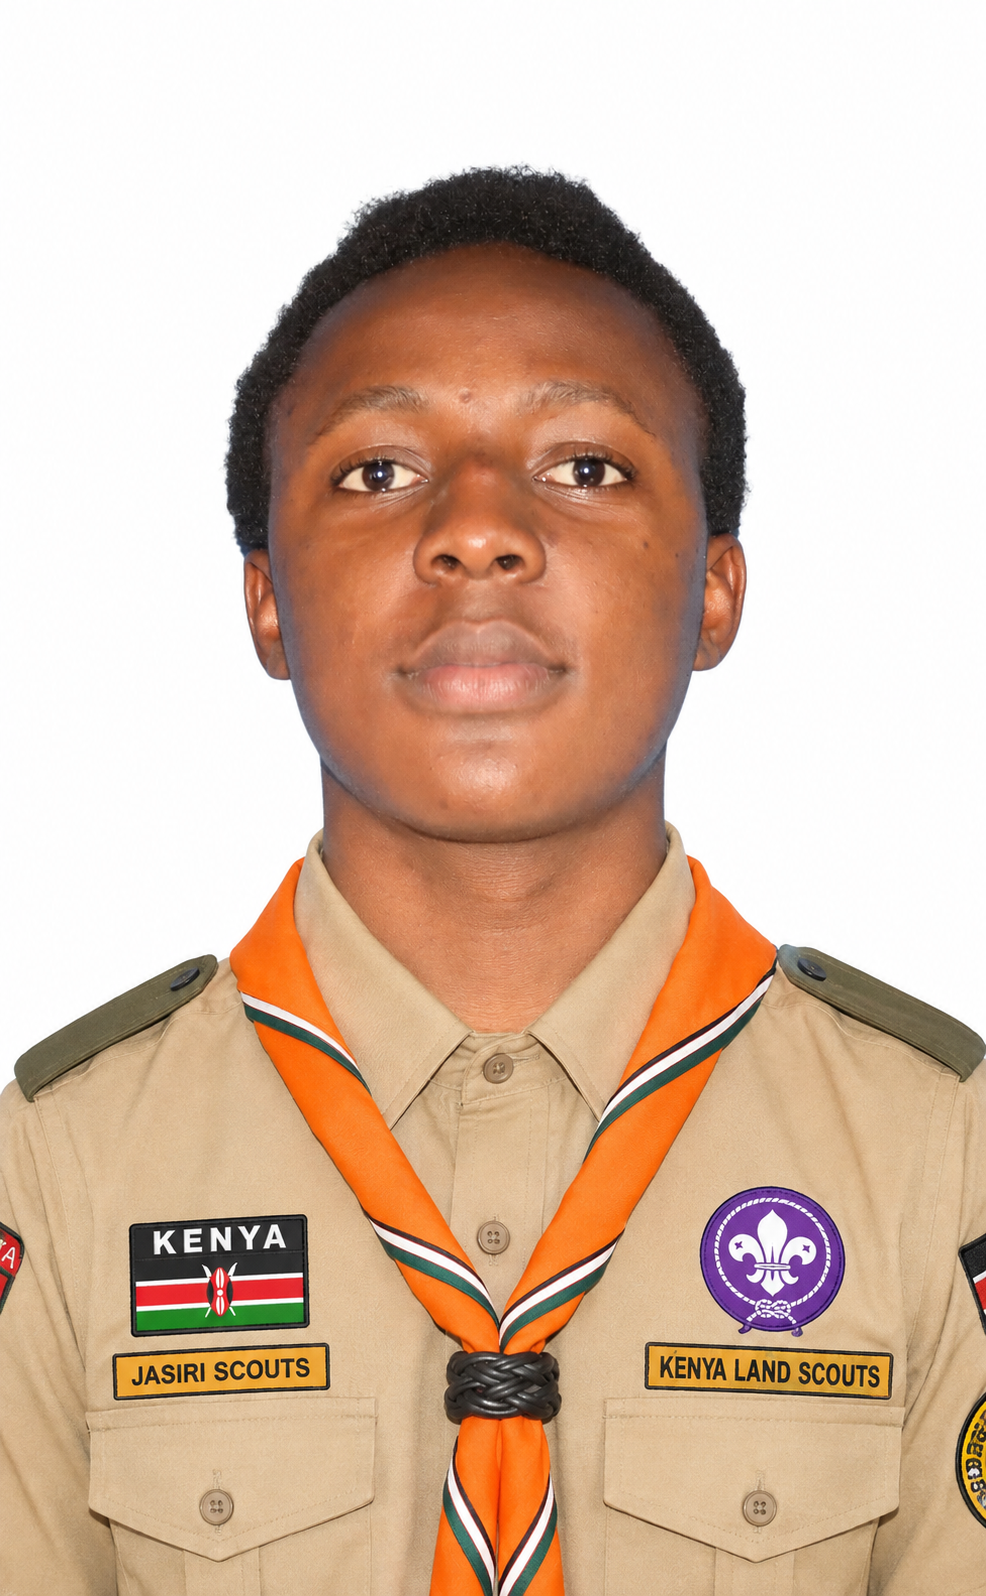
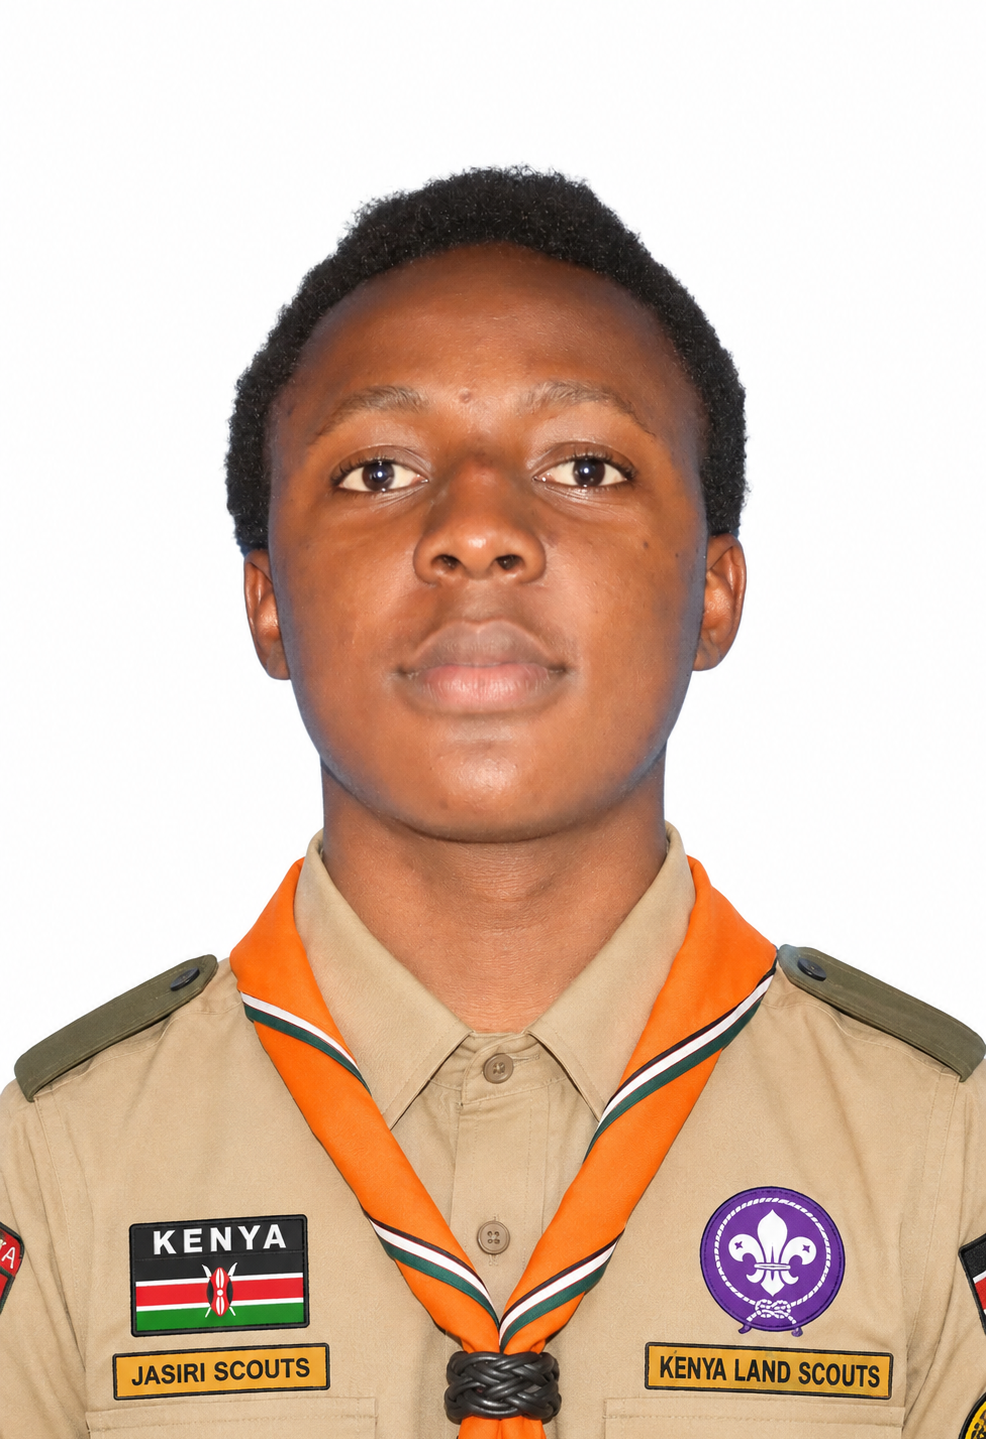
more pics?

diff --git a/src/lib/member-directory.ts b/src/lib/member-directory.ts
@@ -5,17 +5,17 @@ import victorManee from "@/assets/victor-manee.png";
 import johnKibara from "@/assets/john-kibara.jpeg";
 import evansMaina from "@/assets/evans-maina.jpg";
 import andreaneKaniaru from "@/assets/andreane-kaniaru.png";
-import antonyNgui from "@/assets/antony-ngui.png";
+//import antonyNgui from "@/assets/antony-ngui.png";
 import angelKabi from "@/assets/angel-kabi.png";
 import roseMwendwa from "@/assets/rose-mwendwa.png";
 import ashleyMwende from "@/assets/ashley-mwende.png";
-/*import hopeNgumi from "@/assets/hope-ngumi.jpg";
-import solomon from "@/assets/solomon.jpg";*/
+import hopeWanjiru from "@/assets/hope-wanjiru.png";
+//import solomon from "@/assets/solomon.jpg";
 import derickOwuor from "@/assets/derick-owuor.png";
-/*import machoka from "@/assets/machoka.jpg";
-import jacksonKagema from "@/assets/jackson-kagema.jpg";
-import ivana from "@/assets/ivana.jpg"
-import candice from "@/assets/candice.jpg"*/
+//import machoka from "@/assets/machoka.jpg";
+import jacksonKagema from "@/assets/jackson-kagema.jpeg";
+import ivanaFlorence from "@/assets/ivana-florence.jpeg"
+import candiceKangethe from "@/assets/candice-kang'ethe.jpeg"
 import davidKaranja from "@/assets/david-karanja.png";
 import { de } from "date-fns/locale";
 
@@ -269,17 +269,17 @@ const localMemberProfiles: LocalMember[] = [
     role_id: "local-role-scribe",
   },
   {
-    id: "local-candice",
-    slug: "candice",
+    id: "local-candice-kangéthe",
+    slug: "candice-kangéthe",
     member_id: "BR2026006",
-    full_name: "Candice",
+    full_name: "Candice Kangéthe",
     gender: "female",
-    photo_url: placeholder,
+    photo_url: candiceKangethe,
     bio: "Member profile information coming soon.",
     join_date: null,
-    birth_day: null,
-    birth_month: null,
-    show_birthday: false,
+    birth_day: 3,
+    birth_month: 6,
+    show_birthday: true,
     skills: ["To be added"],
     interests: ["To be added"],
     scout_level: "To be added",
@@ -369,16 +369,16 @@ const localMemberProfiles: LocalMember[] = [
     role_id: "local-role-quater-master",
   },
   {
-    id: "local-ivana",
-    slug: "ivana",
+    id: "local-ivana-florence",
+    slug: "ivana-florence",
     member_id: "BR2026010",
-    full_name: "Ivana",
+    full_name: "Ivana Florence Nyangi",
     gender: "female",
-    photo_url: placeholder,
+    photo_url: ivanaFlorence,
     bio: "Member profile information coming soon.",
     join_date: null,
-    birth_day: 13,
-    birth_month: 5,
+    birth_day: 9,
+    birth_month: 10,
     show_birthday: true,
     skills: ["To be added"],
     interests: ["To be added"],
@@ -399,7 +399,7 @@ const localMemberProfiles: LocalMember[] = [
     member_id: "BR2026011",
     full_name: "Jackson Kagema",
     gender: "male",
-    photo_url: placeholder,
+    photo_url: jacksonKagema,
     bio: "Member profile information coming soon.",
     join_date: null,
     birth_day: null,
@@ -419,17 +419,17 @@ const localMemberProfiles: LocalMember[] = [
     role_id: "local-role-drills-master",
   },
   {
-    id: "local-hope-ngumi",
-    slug: "hope-ngumi",
+    id: "local-hope-wanjiru",
+    slug: "hope-wanjiru",
     member_id: "BR2026012",
-    full_name: "Hope Ngumi",
+    full_name: "Hope Wanjiru",
     gender: "female",
-    photo_url: placeholder,
+    photo_url: hopeWanjiru,
     bio: "Member profile information coming soon.",
     join_date: null,
-    birth_day: null,
-    birth_month: null,
-    show_birthday: false,
+    birth_day: 16,
+    birth_month: 4,
+    show_birthday: true,
     skills: ["To be added"],
     interests: ["To be added"],
     scout_level: "To be added",
@@ -493,7 +493,7 @@ const localMemberProfiles: LocalMember[] = [
     sort_order: 14,
     role_id: "local-role-den-keeper",
   },
-  {
+  /*{
     id: "local-antony-ngui",
     slug: "antony-ngui",
     member_id: "BR2026015",
@@ -517,7 +517,7 @@ const localMemberProfiles: LocalMember[] = [
     is_published: true,
     sort_order: 15,
     role_id: "local-role-spiritual-leader",
-  },
+  },*/
   {
     id: "local-david-karanja",
     slug: "david-karanja",
